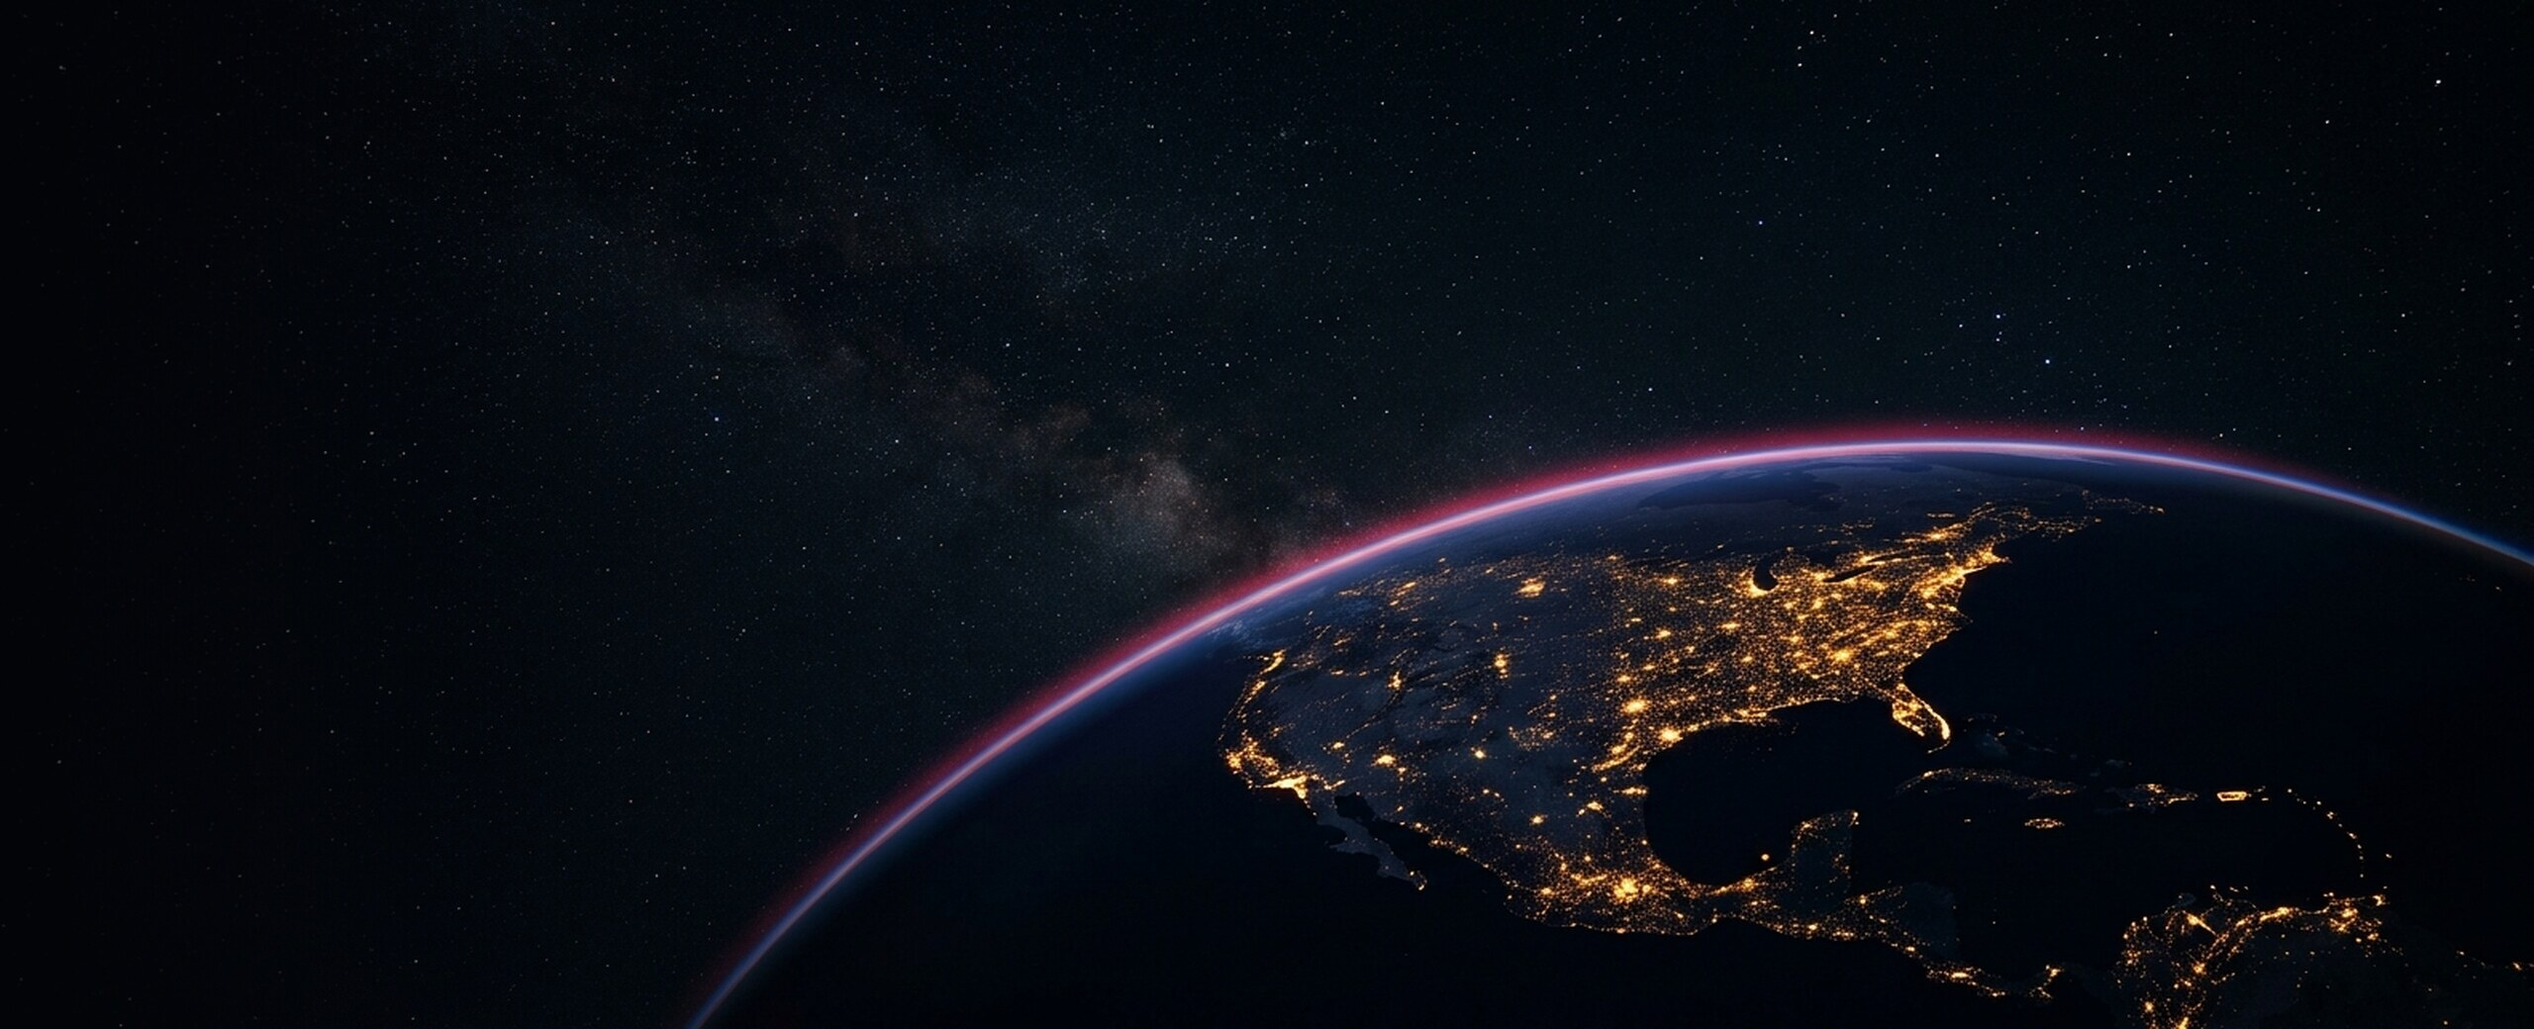
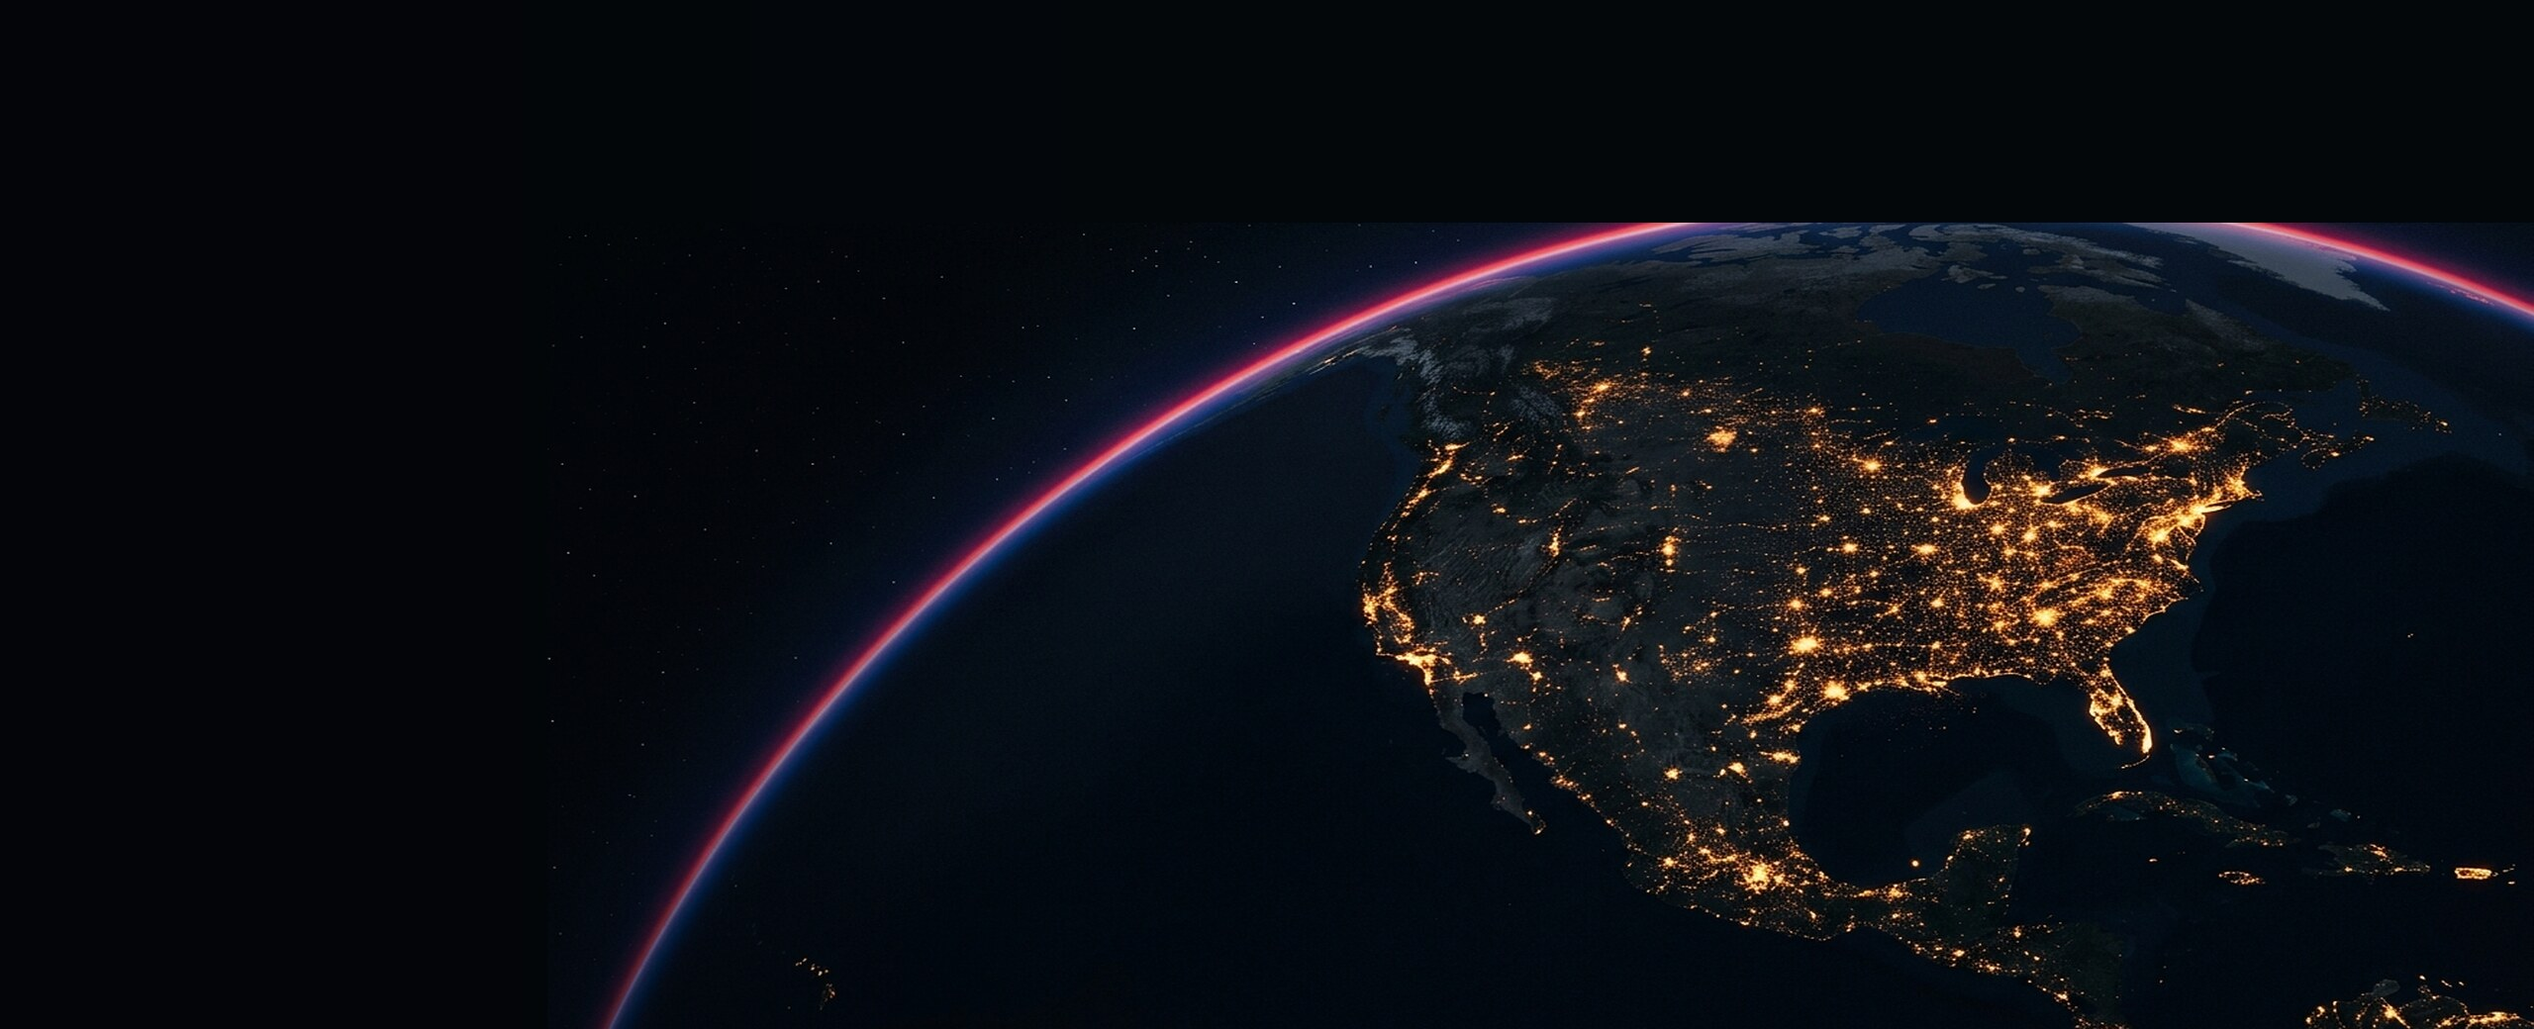
Match the hero framing to the original: bigger globe, less empty space
The first generated shot put the planet low and small, so the frame was mostly
deep space - the opposite weight to the original, where the globe dominates.

Matched it by measurement rather than eye. A script reads the planet's bright
rim per column in both images; the original crests around y=187-280 while the
first attempt crested at y=439-471, which is how far off it was. A least-squares
fit over the columns where the original's rim reads cleanly gives the scale that
lands one curve on the other.

The replacement shot came out ~20% too large, so it is scaled down anchored to
the BOTTOM-RIGHT corner: the planet stays welded to that corner and the only gap
opens at the top-left, which is empty black space in both images and fills
invisibly (seam measures 4-9 lum out of 255). Limb now tracks the original
within ~50px across the frame.

The network was rebuilt for the new geography - all fourteen routes moved, plus
three new ones sweeping out over the dark side of the globe to use the empty
left the way the original art did. Rails lifted to 0.38 alpha so they still read
over the bright continent. Node snapping tightened from 70px to 28px: at 70 the
blurred-brightness search walked nodes off their cities and onto the dense
interior.

Share image rebuilt from the new hero.

diff --git a/site/index.html b/site/index.html
@@ -165,7 +165,7 @@ img:is([sizes=auto i],[sizes^="auto," i]){contain-intrinsic-size:3000px 1500px}
 				</div>
 				</header>
 				<div data-elementor-type="wp-page" data-elementor-id="9" class="elementor elementor-9" data-elementor-post-type="page">
-				<div class="elementor-element elementor-element-573e6e5 e-flex e-con-boxed e-con e-parent" data-id="573e6e5" data-element_type="container" data-e-type="container" data-settings="{&quot;background_background&quot;:&quot;classic&quot;}"><svg class="bolt-arcs" viewBox="0 0 2560 1040" preserveAspectRatio="xMidYMid slice" aria-hidden="true" focusable="false"><g class="bolt-arcs__rails"><path d="M1644,899 Q1806,479 1967,583"/><path d="M1325,598 Q1646,167 1967,583"/><path d="M1644,899 Q1484,529 1325,598"/><path d="M1398,766 Q1582,428 1766,594"/><path d="M1654,715 Q1790,592 1925,718"/><path d="M1644,899 Q1705,853 1766,905"/><path d="M1766,594 Q1846,555 1925,718"/><path d="M1967,583 Q2256,287 2545,402"/><path d="M1424,542 Q1595,388 1766,594"/><path d="M1644,899 Q1855,660 2066,831"/><path d="M1766,905 Q1961,762 2156,966"/><path d="M1585,886 Q1620,716 1654,715"/><path d="M1424,542 Q1696,181 1967,583"/><path d="M1858,660 Q1962,632 2066,831"/></g><g class="bolt-arcs__pulses"><path class="bolt-arcs__glow " style="--d:7.5s;--t:0.0s" pathLength="1" d="M1644,899 Q1806,479 1967,583"/><path class="bolt-arcs__core " style="--d:7.5s;--t:0.0s" pathLength="1" d="M1644,899 Q1806,479 1967,583"/><path class="bolt-arcs__glow " style="--d:10.5s;--t:1.2s" pathLength="1" d="M1325,598 Q1646,167 1967,583"/><path class="bolt-arcs__core " style="--d:10.5s;--t:1.2s" pathLength="1" d="M1325,598 Q1646,167 1967,583"/><path class="bolt-arcs__glow is-accent" style="--d:6.0s;--t:2.4s" pathLength="1" d="M1644,899 Q1484,529 1325,598"/><path class="bolt-arcs__core is-accent" style="--d:6.0s;--t:2.4s" pathLength="1" d="M1644,899 Q1484,529 1325,598"/><path class="bolt-arcs__glow " style="--d:9.0s;--t:0.6s" pathLength="1" d="M1398,766 Q1582,428 1766,594"/><path class="bolt-arcs__core " style="--d:9.0s;--t:0.6s" pathLength="1" d="M1398,766 Q1582,428 1766,594"/><path class="bolt-arcs__glow " style="--d:6.5s;--t:3.1s" pathLength="1" d="M1654,715 Q1790,592 1925,718"/><path class="bolt-arcs__core " style="--d:6.5s;--t:3.1s" pathLength="1" d="M1654,715 Q1790,592 1925,718"/><path class="bolt-arcs__glow " style="--d:6.0s;--t:1.8s" pathLength="1" d="M1644,899 Q1705,853 1766,905"/><path class="bolt-arcs__core " style="--d:6.0s;--t:1.8s" pathLength="1" d="M1644,899 Q1705,853 1766,905"/><path class="bolt-arcs__glow " style="--d:7.0s;--t:4.2s" pathLength="1" d="M1766,594 Q1846,555 1925,718"/><path class="bolt-arcs__core " style="--d:7.0s;--t:4.2s" pathLength="1" d="M1766,594 Q1846,555 1925,718"/><path class="bolt-arcs__glow is-accent" style="--d:8.5s;--t:0.9s" pathLength="1" d="M1967,583 Q2256,287 2545,402"/><path class="bolt-arcs__core is-accent" style="--d:8.5s;--t:0.9s" pathLength="1" d="M1967,583 Q2256,287 2545,402"/><path class="bolt-arcs__glow " style="--d:7.5s;--t:5.0s" pathLength="1" d="M1424,542 Q1595,388 1766,594"/><path class="bolt-arcs__core " style="--d:7.5s;--t:5.0s" pathLength="1" d="M1424,542 Q1595,388 1766,594"/><path class="bolt-arcs__glow " style="--d:8.0s;--t:2.9s" pathLength="1" d="M1644,899 Q1855,660 2066,831"/><path class="bolt-arcs__core " style="--d:8.0s;--t:2.9s" pathLength="1" d="M1644,899 Q1855,660 2066,831"/><path class="bolt-arcs__glow " style="--d:6.0s;--t:4.6s" pathLength="1" d="M1766,905 Q1961,762 2156,966"/><path class="bolt-arcs__core " style="--d:6.0s;--t:4.6s" pathLength="1" d="M1766,905 Q1961,762 2156,966"/><path class="bolt-arcs__glow " style="--d:6.5s;--t:5.6s" pathLength="1" d="M1585,886 Q1620,716 1654,715"/><path class="bolt-arcs__core " style="--d:6.5s;--t:5.6s" pathLength="1" d="M1585,886 Q1620,716 1654,715"/><path class="bolt-arcs__glow " style="--d:11.0s;--t:3.6s" pathLength="1" d="M1424,542 Q1696,181 1967,583"/><path class="bolt-arcs__core " style="--d:11.0s;--t:3.6s" pathLength="1" d="M1424,542 Q1696,181 1967,583"/><path class="bolt-arcs__glow is-accent" style="--d:6.0s;--t:6.3s" pathLength="1" d="M1858,660 Q1962,632 2066,831"/><path class="bolt-arcs__core is-accent" style="--d:6.0s;--t:6.3s" pathLength="1" d="M1858,660 Q1962,632 2066,831"/></g><g class="bolt-arcs__nodes"><circle class="bolt-arcs__halo" style="--t:0.00s" cx="1858" cy="660" r="9"/><circle class="bolt-arcs__dot" cx="1858" cy="660" r="2.6"/><circle class="bolt-arcs__halo" style="--t:0.47s" cx="2156" cy="966" r="9"/><circle class="bolt-arcs__dot" cx="2156" cy="966" r="2.6"/><circle class="bolt-arcs__halo" style="--t:0.94s" cx="1766" cy="594" r="9"/><circle class="bolt-arcs__dot" cx="1766" cy="594" r="2.6"/><circle class="bolt-arcs__halo" style="--t:1.41s" cx="2066" cy="831" r="9"/><circle class="bolt-arcs__dot" cx="2066" cy="831" r="2.6"/><circle class="bolt-arcs__halo" style="--t:1.88s" cx="1585" cy="886" r="9"/><circle class="bolt-arcs__dot" cx="1585" cy="886" r="2.6"/><circle class="bolt-arcs__halo" style="--t:2.35s" cx="1654" cy="715" r="9"/><circle class="bolt-arcs__dot" cx="1654" cy="715" r="2.6"/><circle class="bolt-arcs__halo" style="--t:2.82s" cx="1325" cy="598" r="9"/><circle class="bolt-arcs__dot" cx="1325" cy="598" r="2.6"/><circle class="bolt-arcs__halo" style="--t:3.29s" cx="1644" cy="899" r="9"/><circle class="bolt-arcs__dot" cx="1644" cy="899" r="2.6"/><circle class="bolt-arcs__halo" style="--t:3.76s" cx="1925" cy="718" r="9"/><circle class="bolt-arcs__dot" cx="1925" cy="718" r="2.6"/><circle class="bolt-arcs__halo" style="--t:4.23s" cx="1967" cy="583" r="9"/><circle class="bolt-arcs__dot" cx="1967" cy="583" r="2.6"/><circle class="bolt-arcs__halo" style="--t:4.70s" cx="1766" cy="905" r="9"/><circle class="bolt-arcs__dot" cx="1766" cy="905" r="2.6"/><circle class="bolt-arcs__halo" style="--t:5.17s" cx="1424" cy="542" r="9"/><circle class="bolt-arcs__dot" cx="1424" cy="542" r="2.6"/><circle class="bolt-arcs__halo" style="--t:5.64s" cx="1398" cy="766" r="9"/><circle class="bolt-arcs__dot" cx="1398" cy="766" r="2.6"/></g></svg>
+				<div class="elementor-element elementor-element-573e6e5 e-flex e-con-boxed e-con e-parent" data-id="573e6e5" data-element_type="container" data-e-type="container" data-settings="{&quot;background_background&quot;:&quot;classic&quot;}"><svg class="bolt-arcs" viewBox="0 0 2560 1040" preserveAspectRatio="xMidYMid slice" aria-hidden="true" focusable="false"><g class="bolt-arcs__rails"><path d="M1687,870 Q1902,461 2118,519"/><path d="M1277,644 Q1698,156 2118,519"/><path d="M1687,870 Q1482,570 1277,644"/><path d="M1330,706 Q1654,293 1978,504"/><path d="M1714,672 Q1908,558 2101,742"/><path d="M1687,870 Q1832,813 1977,963"/><path d="M1978,504 Q2040,516 2101,742"/><path d="M2118,519 Q2309,154 2500,120"/><path d="M1310,490 Q1644,216 1978,504"/><path d="M1687,870 Q1920,654 2152,812"/><path d="M1977,963 Q2190,747 2402,862"/><path d="M1562,837 Q1638,669 1714,672"/><path d="M1310,490 Q1714,68 2118,519"/><path d="M2018,632 Q2085,646 2152,812"/><path d="M1277,644 Q1088,600 900,800"/><path d="M1310,490 Q1245,401 1180,395"/><path d="M1687,870 Q1294,566 900,800"/></g><g class="bolt-arcs__pulses"><path class="bolt-arcs__glow " style="--d:7.5s;--t:0.0s" pathLength="1" d="M1687,870 Q1902,461 2118,519"/><path class="bolt-arcs__core " style="--d:7.5s;--t:0.0s" pathLength="1" d="M1687,870 Q1902,461 2118,519"/><path class="bolt-arcs__glow " style="--d:10.5s;--t:1.2s" pathLength="1" d="M1277,644 Q1698,156 2118,519"/><path class="bolt-arcs__core " style="--d:10.5s;--t:1.2s" pathLength="1" d="M1277,644 Q1698,156 2118,519"/><path class="bolt-arcs__glow is-accent" style="--d:6.0s;--t:2.4s" pathLength="1" d="M1687,870 Q1482,570 1277,644"/><path class="bolt-arcs__core is-accent" style="--d:6.0s;--t:2.4s" pathLength="1" d="M1687,870 Q1482,570 1277,644"/><path class="bolt-arcs__glow " style="--d:9.0s;--t:0.6s" pathLength="1" d="M1330,706 Q1654,293 1978,504"/><path class="bolt-arcs__core " style="--d:9.0s;--t:0.6s" pathLength="1" d="M1330,706 Q1654,293 1978,504"/><path class="bolt-arcs__glow " style="--d:6.5s;--t:3.1s" pathLength="1" d="M1714,672 Q1908,558 2101,742"/><path class="bolt-arcs__core " style="--d:6.5s;--t:3.1s" pathLength="1" d="M1714,672 Q1908,558 2101,742"/><path class="bolt-arcs__glow " style="--d:6.0s;--t:1.8s" pathLength="1" d="M1687,870 Q1832,813 1977,963"/><path class="bolt-arcs__core " style="--d:6.0s;--t:1.8s" pathLength="1" d="M1687,870 Q1832,813 1977,963"/><path class="bolt-arcs__glow " style="--d:7.0s;--t:4.2s" pathLength="1" d="M1978,504 Q2040,516 2101,742"/><path class="bolt-arcs__core " style="--d:7.0s;--t:4.2s" pathLength="1" d="M1978,504 Q2040,516 2101,742"/><path class="bolt-arcs__glow is-accent" style="--d:8.5s;--t:0.9s" pathLength="1" d="M2118,519 Q2309,154 2500,120"/><path class="bolt-arcs__core is-accent" style="--d:8.5s;--t:0.9s" pathLength="1" d="M2118,519 Q2309,154 2500,120"/><path class="bolt-arcs__glow " style="--d:7.5s;--t:5.0s" pathLength="1" d="M1310,490 Q1644,216 1978,504"/><path class="bolt-arcs__core " style="--d:7.5s;--t:5.0s" pathLength="1" d="M1310,490 Q1644,216 1978,504"/><path class="bolt-arcs__glow " style="--d:8.0s;--t:2.9s" pathLength="1" d="M1687,870 Q1920,654 2152,812"/><path class="bolt-arcs__core " style="--d:8.0s;--t:2.9s" pathLength="1" d="M1687,870 Q1920,654 2152,812"/><path class="bolt-arcs__glow " style="--d:6.0s;--t:4.6s" pathLength="1" d="M1977,963 Q2190,747 2402,862"/><path class="bolt-arcs__core " style="--d:6.0s;--t:4.6s" pathLength="1" d="M1977,963 Q2190,747 2402,862"/><path class="bolt-arcs__glow " style="--d:6.5s;--t:5.6s" pathLength="1" d="M1562,837 Q1638,669 1714,672"/><path class="bolt-arcs__core " style="--d:6.5s;--t:5.6s" pathLength="1" d="M1562,837 Q1638,669 1714,672"/><path class="bolt-arcs__glow " style="--d:11.0s;--t:3.6s" pathLength="1" d="M1310,490 Q1714,68 2118,519"/><path class="bolt-arcs__core " style="--d:11.0s;--t:3.6s" pathLength="1" d="M1310,490 Q1714,68 2118,519"/><path class="bolt-arcs__glow is-accent" style="--d:6.0s;--t:6.3s" pathLength="1" d="M2018,632 Q2085,646 2152,812"/><path class="bolt-arcs__core is-accent" style="--d:6.0s;--t:6.3s" pathLength="1" d="M2018,632 Q2085,646 2152,812"/><path class="bolt-arcs__glow " style="--d:9.5s;--t:2.0s" pathLength="1" d="M1277,644 Q1088,600 900,800"/><path class="bolt-arcs__core " style="--d:9.5s;--t:2.0s" pathLength="1" d="M1277,644 Q1088,600 900,800"/><path class="bolt-arcs__glow " style="--d:8.0s;--t:6.8s" pathLength="1" d="M1310,490 Q1245,401 1180,395"/><path class="bolt-arcs__core " style="--d:8.0s;--t:6.8s" pathLength="1" d="M1310,490 Q1245,401 1180,395"/><path class="bolt-arcs__glow " style="--d:10.0s;--t:4.9s" pathLength="1" d="M1687,870 Q1294,566 900,800"/><path class="bolt-arcs__core " style="--d:10.0s;--t:4.9s" pathLength="1" d="M1687,870 Q1294,566 900,800"/></g><g class="bolt-arcs__nodes"><circle class="bolt-arcs__halo" style="--t:0.00s" cx="2018" cy="632" r="9"/><circle class="bolt-arcs__dot" cx="2018" cy="632" r="2.6"/><circle class="bolt-arcs__halo" style="--t:0.47s" cx="2402" cy="862" r="9"/><circle class="bolt-arcs__dot" cx="2402" cy="862" r="2.6"/><circle class="bolt-arcs__halo" style="--t:0.94s" cx="1978" cy="504" r="9"/><circle class="bolt-arcs__dot" cx="1978" cy="504" r="2.6"/><circle class="bolt-arcs__halo" style="--t:1.41s" cx="2152" cy="812" r="9"/><circle class="bolt-arcs__dot" cx="2152" cy="812" r="2.6"/><circle class="bolt-arcs__halo" style="--t:1.88s" cx="1562" cy="837" r="9"/><circle class="bolt-arcs__dot" cx="1562" cy="837" r="2.6"/><circle class="bolt-arcs__halo" style="--t:2.35s" cx="1714" cy="672" r="9"/><circle class="bolt-arcs__dot" cx="1714" cy="672" r="2.6"/><circle class="bolt-arcs__halo" style="--t:2.82s" cx="1277" cy="644" r="9"/><circle class="bolt-arcs__dot" cx="1277" cy="644" r="2.6"/><circle class="bolt-arcs__halo" style="--t:3.29s" cx="1687" cy="870" r="9"/><circle class="bolt-arcs__dot" cx="1687" cy="870" r="2.6"/><circle class="bolt-arcs__halo" style="--t:3.76s" cx="2101" cy="742" r="9"/><circle class="bolt-arcs__dot" cx="2101" cy="742" r="2.6"/><circle class="bolt-arcs__halo" style="--t:4.23s" cx="1180" cy="395" r="9"/><circle class="bolt-arcs__dot" cx="1180" cy="395" r="2.6"/><circle class="bolt-arcs__halo" style="--t:4.70s" cx="2118" cy="519" r="9"/><circle class="bolt-arcs__dot" cx="2118" cy="519" r="2.6"/><circle class="bolt-arcs__halo" style="--t:5.17s" cx="900" cy="800" r="9"/><circle class="bolt-arcs__dot" cx="900" cy="800" r="2.6"/><circle class="bolt-arcs__halo" style="--t:5.64s" cx="1977" cy="963" r="9"/><circle class="bolt-arcs__dot" cx="1977" cy="963" r="2.6"/><circle class="bolt-arcs__halo" style="--t:6.11s" cx="1310" cy="490" r="9"/><circle class="bolt-arcs__dot" cx="1310" cy="490" r="2.6"/><circle class="bolt-arcs__halo" style="--t:6.58s" cx="1330" cy="706" r="9"/><circle class="bolt-arcs__dot" cx="1330" cy="706" r="2.6"/></g></svg>
 					<div class="e-con-inner">
 		<div class="elementor-element elementor-element-ecb6ab4 e-con-full e-flex e-con e-child" data-id="ecb6ab4" data-element_type="container" data-e-type="container">
 				<div class="elementor-element elementor-element-3570027 elementor-widget elementor-widget-heading" data-id="3570027" data-element_type="widget" data-e-type="widget" data-widget_type="heading.default">

diff --git a/site/assets/bolt.css b/site/assets/bolt.css
@@ -219,8 +219,8 @@
 /* the always-visible route lines */
 .bolt-arcs__rails path {
     fill: none;
-    stroke: rgba(255, 255, 255, 0.26);
-    stroke-width: 1.5;
+    stroke: rgba(255, 255, 255, 0.38);
+    stroke-width: 1.6;
 }
 
 /* the light itself: a soft wide pass with a bright core over it */

diff --git a/tools-arcs-generator.py b/tools-arcs-generator.py
@@ -11,30 +11,34 @@ import math, json, sys
 W, H = 2560, 1040
 
 NODES = {
-    # snapped to the brightest city-light cluster within 70px
-    "SEA": (1424, 542), "LAX": (1325, 598), "TIJ": (1398, 766),
-    "CHI": (1766, 594), "NYC": (1967, 583), "ATL": (1858, 660),
-    "HOU": (1654, 715), "MIA": (1925, 718), "GDL": (1585, 886),
-    "MEX": (1644, 899), "CUB": (2066, 831), "PAN": (1766, 905),
-    "BOG": (2156, 966), "EUR": (2545, 402),
+    # picked off the hero art, nudged onto the nearest light (28px)
+    "SEA": (1310, 490), "LAX": (1277, 644), "TIJ": (1330, 706),
+    "CHI": (1978, 504), "NYC": (2118, 519), "ATL": (2018, 632),
+    "HOU": (1714, 672), "MIA": (2101, 742), "GDL": (1562, 837),
+    "MEX": (1687, 870), "CUB": (2152, 812), "PAN": (1977, 963),
+    "BOG": (2402, 862), "EUR": (2500, 120),
+    "PAC": (900, 800), "NOR": (1180, 395),
 }
 
 # (from, to, lift, seconds, delay, accent)
 ARCS = [
-    ("MEX", "NYC", 0.58,  7.5, 0.0,  False),
-    ("LAX", "NYC", 0.66, 10.5, 1.2,  False),
-    ("MEX", "LAX", 0.50,  6.0, 2.4,  True),
-    ("TIJ", "CHI", 0.62,  9.0, 0.6,  False),
-    ("HOU", "MIA", 0.46,  6.5, 3.1,  False),
-    ("MEX", "PAN", 0.40,  6.0, 1.8,  False),
-    ("CHI", "MIA", 0.50,  7.0, 4.2,  False),
-    ("NYC", "EUR", 0.34,  8.5, 0.9,  True),
-    ("SEA", "CHI", 0.52,  7.5, 5.0,  False),
-    ("MEX", "CUB", 0.48,  8.0, 2.9,  False),
-    ("PAN", "BOG", 0.44,  6.0, 4.6,  False),
-    ("GDL", "HOU", 0.46,  6.5, 5.6,  False),
-    ("SEA", "NYC", 0.70, 11.0, 3.6,  False),
-    ("ATL", "CUB", 0.42,  6.0, 6.3,  True),
+    ("MEX", "NYC", 0.42,  7.5, 0.0,  False),
+    ("LAX", "NYC", 0.50, 10.5, 1.2,  False),
+    ("MEX", "LAX", 0.40,  6.0, 2.4,  True),
+    ("TIJ", "CHI", 0.46,  9.0, 0.6,  False),
+    ("HOU", "MIA", 0.38,  6.5, 3.1,  False),
+    ("MEX", "PAN", 0.34,  6.0, 1.8,  False),
+    ("CHI", "MIA", 0.40,  7.0, 4.2,  False),
+    ("NYC", "EUR", 0.30,  8.5, 0.9,  True),
+    ("SEA", "CHI", 0.42,  7.5, 5.0,  False),
+    ("MEX", "CUB", 0.40,  8.0, 2.9,  False),
+    ("PAN", "BOG", 0.38,  6.0, 4.6,  False),
+    ("GDL", "HOU", 0.38,  6.5, 5.6,  False),
+    ("SEA", "NYC", 0.54, 11.0, 3.6,  False),
+    ("ATL", "CUB", 0.34,  6.0, 6.3,  True),
+    ("LAX", "PAC", 0.30,  9.5, 2.0,  False),
+    ("SEA", "NOR", 0.26,  8.0, 6.8,  False),
+    ("MEX", "PAC", 0.34, 10.0, 4.9,  False),
 ]
 
 def path_d(a, b, lift):

diff --git a/README.md b/README.md
@@ -113,6 +113,14 @@ bright core. The glow and core carry `pathLength="1"`, so a
 animating `stroke-dashoffset` from 0 to 1 walks it end to end. Per-arc speed
 and stagger are the inline `--d` and `--t` custom properties.
 
+The globe was matched to the original shot by measurement, not by eye: a script
+reads the planet's bright rim per column in both images and a least-squares fit
+gives the scale that lands one on the other. The generated frame was ~20% too
+large, so it is scaled down anchored to the **bottom-right** corner - the planet
+stays welded to that corner and the only gap opens at the top-left, which is
+empty black space in both images, so it fills invisibly (measured seam: 4-9 lum
+out of 255).
+
 To change the network, edit the `NODES` and `ARCS` tables in the generator
 (kept out of the repo) or just hand-edit the paths in `index.html` — the
 coordinates are plain image pixels. Node dots were snapped to the brightest
